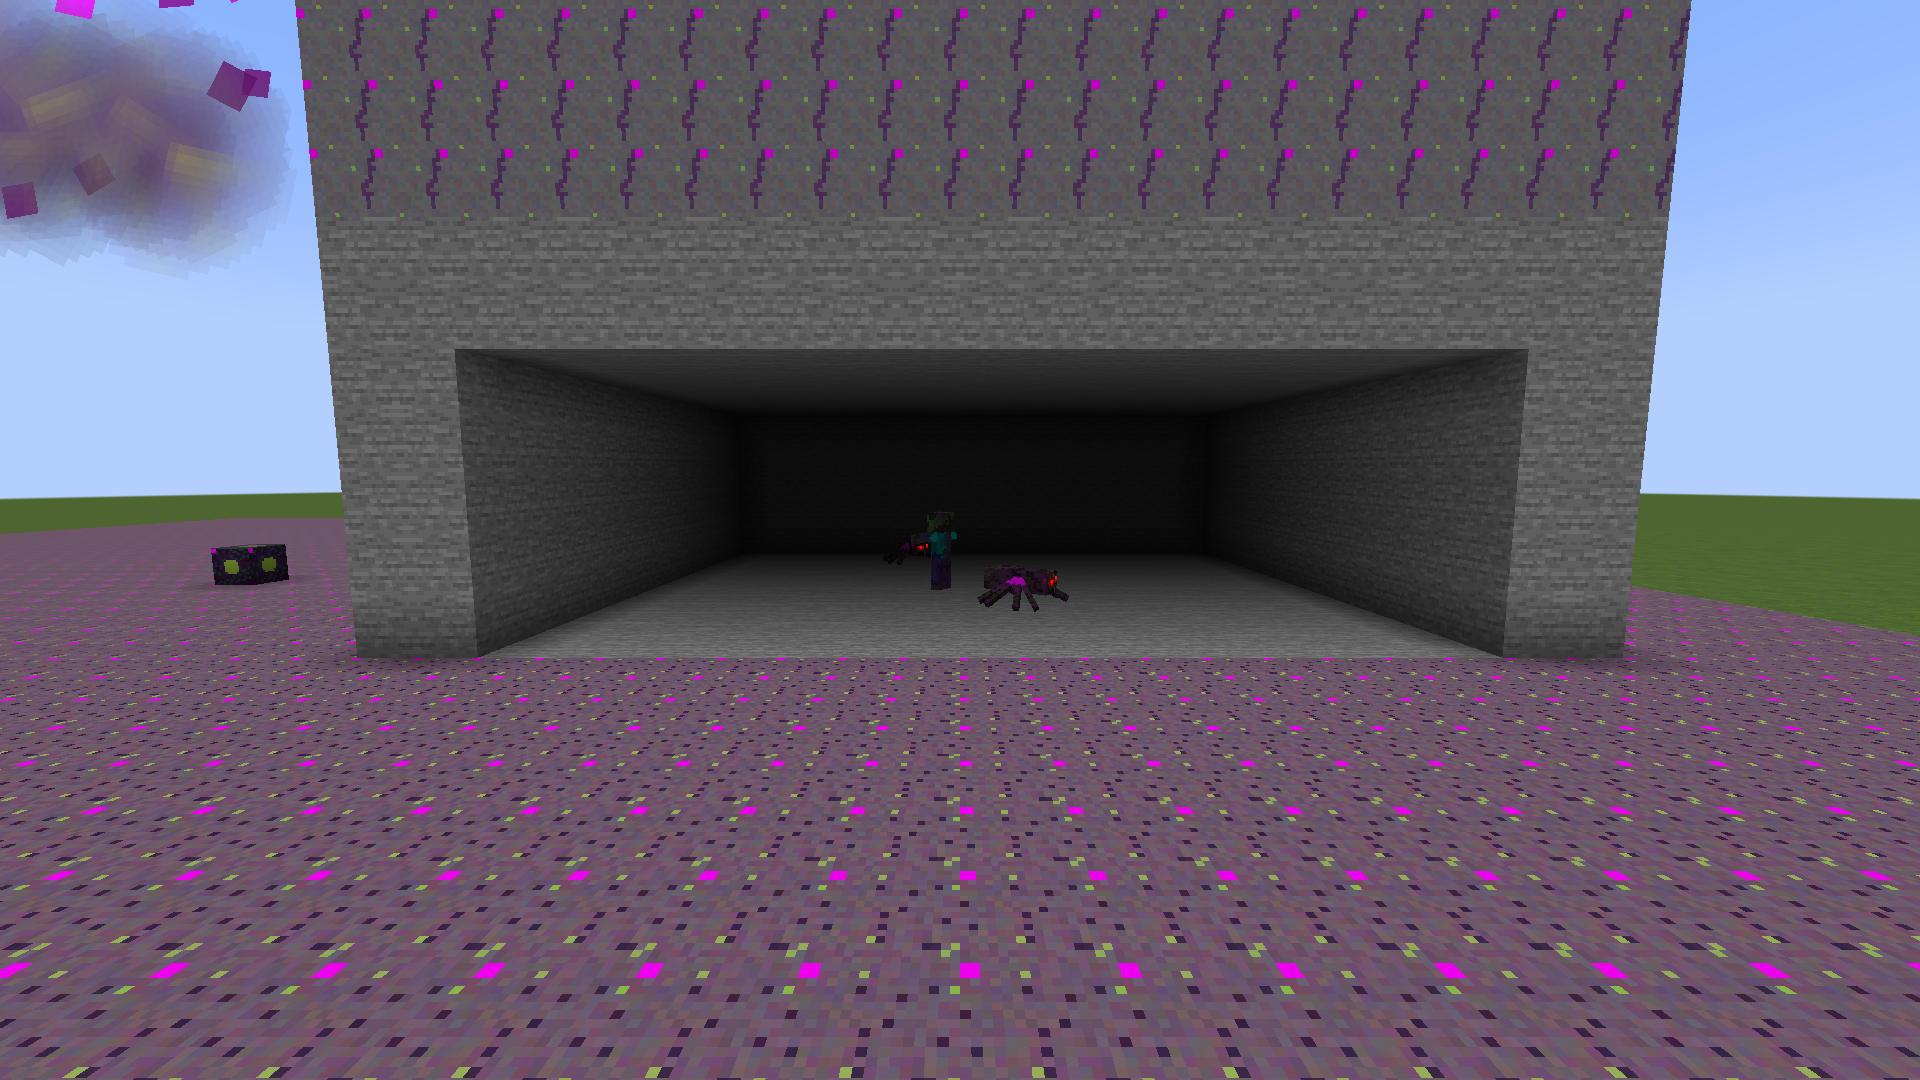
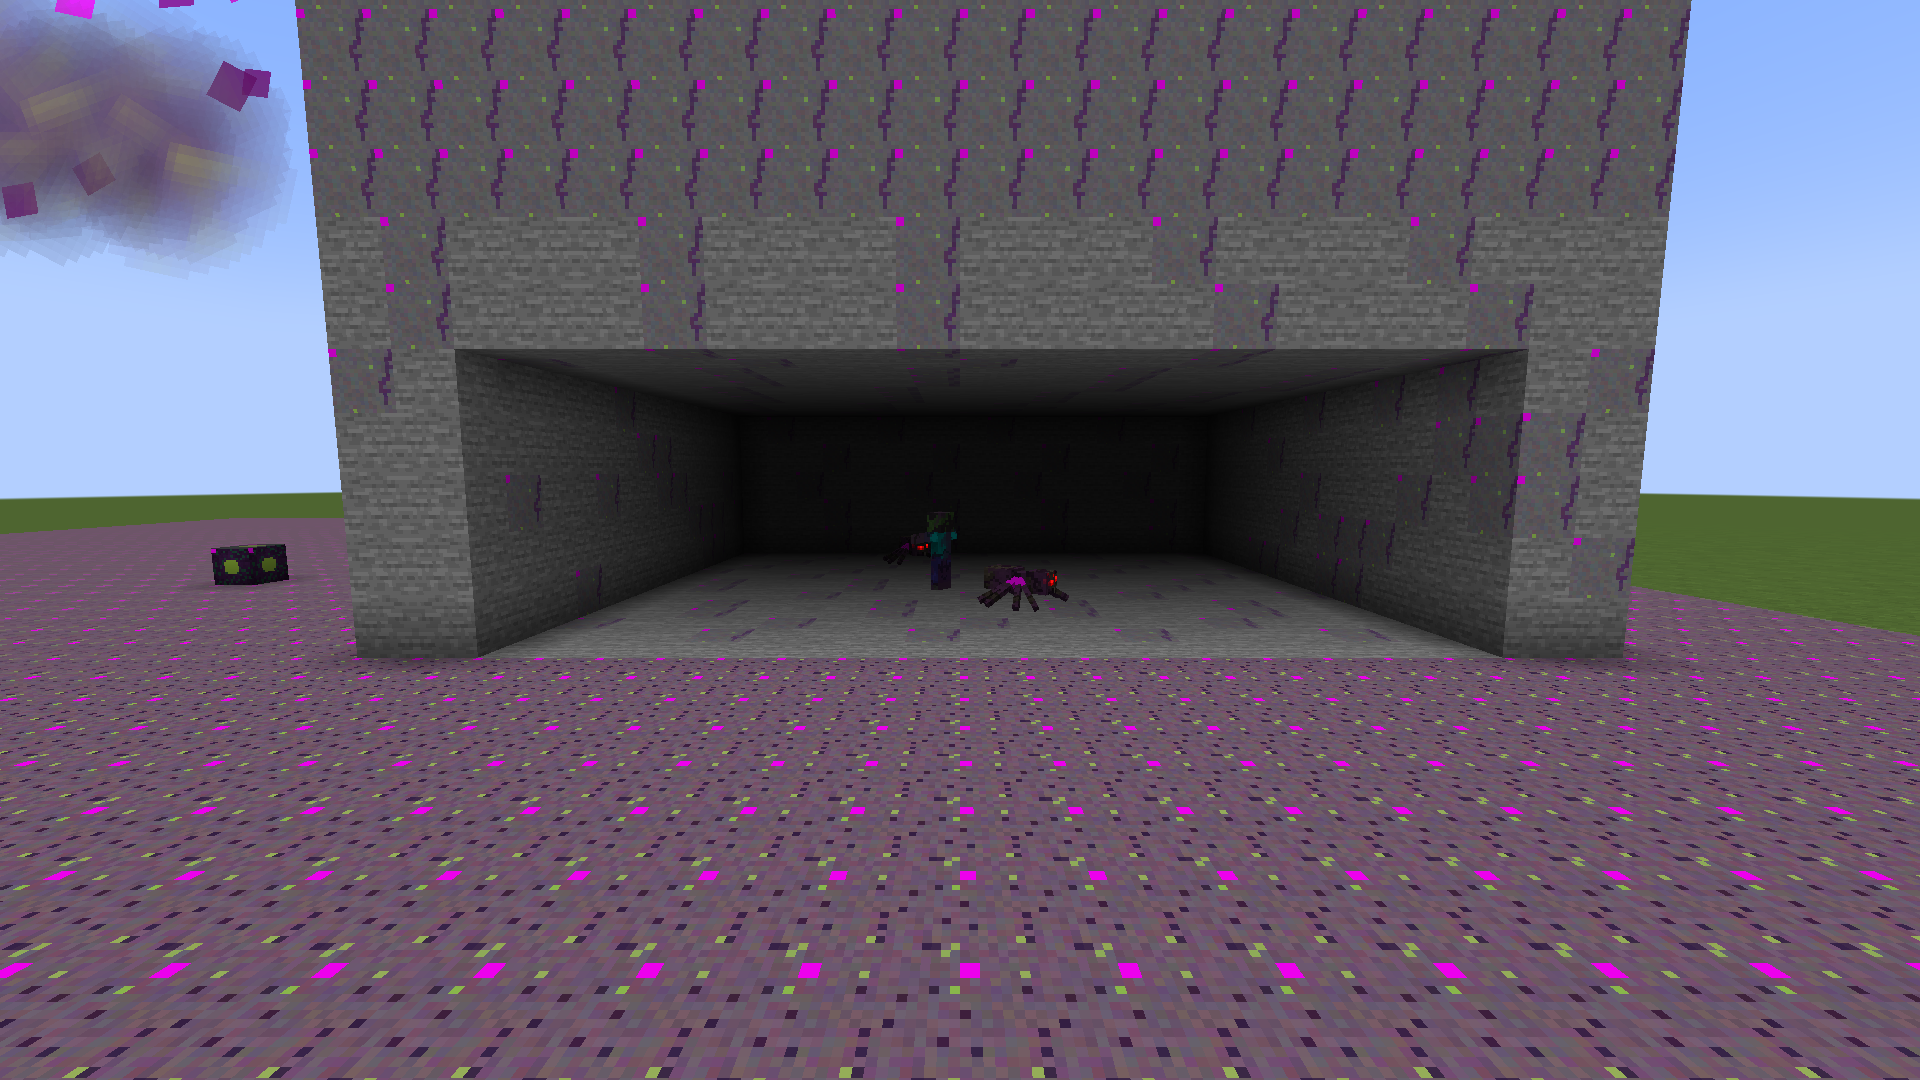
P4.3: Surges with host waves, miasma clouds, events, trigger, stat and commands

diff --git a/.agents/skills/visual-checks/SKILL.md b/.agents/skills/visual-checks/SKILL.md
@@ -58,7 +58,7 @@ Visual evidence is only valid from a GPU run. The log must name the RTX 4070 (he
 - `world/stages` (P4.2; shots `overview`, `stage_0`..`stage_4`): five chunks in a row along x, levels 0, 10, 30, 60, 90 (stages 0–4 with the default thresholds), each with a small oak tree, a horizontal log and a stone outcrop on superflat grass. Check: stage 1 only grass, stage 2 also logs and leaves, stage 3 also stone, stage 4 the same blocks plus the fester grass tint blending on the vanilla grass just outside the chunk; no dark or bright seams along chunk borders, no lighting holes under the canopies. `world/biome_flip` (shots `before`, `after`, `inside`): rows of short grass, a leaf hedge and a stone slab across the border between chunk x 0 and 1; `after` flips chunk 1 to stage 4 as a shot `commands` step, so the short grass there must show the fester tint (khaki, `#B0A07E`) with a clean edge at x = 16 and vanilla blending only on the vanilla grass side; `inside` looks across the flipped chunk, where sky and fog take the fester colours.
 - `world/caves` (P4.6; shots `overview`, `stage_0`..`stage_4`, `deepslate_sculk`, `deep_sparse`): a stone block 21 high (Y 0–20) along five chunks at stages 0–4 (levels 0, 10, 30, 60, 90), each with a tunnel open toward the camera (Y 2–7), coal and iron ore in its walls and ceiling, tuff in its floor and invisible light blocks in its middle; a sixth chunk the same in deepslate with sculk, a sculk sensor and a shrieker (stage 4, above Y=0), and a seventh in deepslate with sculk at Y −44 to −24 (stage 4, below Y=0). Check: stages 0–2 untouched; stages 3 and 4 have every wall, floor and ceiling face festered, the ores intact and the tuff turned to festered deepslate; `deepslate_sculk` shows festered deepslate as violet against the teal sculk, clearly not sculk; `deep_sparse` shows festered patches on about a quarter of the cave faces (the surface pass festers the block's top completely, visible in `overview`); no dark or bright blocks along festered faces (full blocks replace full blocks, so light must not change).
 
-- `world/surge` (P4.3; shots `land`, `hosts`, `cave`): festering land (stage 3) with a nidus, a festering tree, two miasma clouds and a stone hill with a sealed cave. `hosts` spawns surge hosts on the open ground and inside the cave (as a shot command); `cave` opens the cave's front wall. Check: hosts carry the overlay; the cave holds only monsters (zombies, spiders) and animals that could not spawn in the dark cave stand in the open (on the hill top); clouds render as soft violet puffs with the magenta placeholder squares, not as boxes or missing textures. `world/miasma_cloud` (P4.3; shots `side`, `below`, `drift`): four clouds (two placed, two released by `harness surge clouds`) over a 2x2-chunk festering square in clean land. Check: every cloud hangs over festering land, none over the clean grass or the clean tree; `below` looks up into a cloud (puffs blend, no hard sorting seams); `drift` runs `tick step 600` and the clouds have moved but still sit over festering land.
+- `world/surge` (P4.3; shots `land`, `hosts`, `cave`): festering land (stage 3) with a nidus, a festering tree, two miasma clouds and a stone hill with a sealed cave. `hosts` spawns surge hosts on the open ground and inside the cave (as a shot command); `cave` opens the cave's front wall. Since P4.6 the hill's exposed stone shows the sparse cave skin (below Y=0, one block in four). Check: hosts carry the overlay; the cave holds only monsters (zombies, spiders) and animals that could not spawn in the dark cave stand in the open (on the hill top); clouds render as soft violet puffs with the magenta placeholder squares, not as boxes or missing textures. `world/miasma_cloud` (P4.3; shots `side`, `below`, `drift`): four clouds (two placed, two released by `harness surge clouds`) over a 2x2-chunk festering square in clean land. Check: every cloud hangs over festering land, none over the clean grass or the clean tree; `below` looks up into a cloud (puffs blend, no hard sorting seams); `drift` runs `tick step 600` and the clouds have moved but still sit over festering land.
 
 Name scenes `<area>/<subject>` as in ROADMAP (`corruption/stages_vanilla`, `world/stages`, `purification/pylon_radius`, `integration/create_fan_purify`).
 

diff --git a/mod/CHANGELOG.md b/mod/CHANGELOG.md
@@ -20,3 +20,4 @@ Versions follow `mod_version` in `gradle.properties`; tags are `mod-v<version>`.
 - Quest gates (P8.1): advancement triggers `remission:nidus_destroyed` (a player breaks a nidus; `location`), `remission:host_scanned` (`entity`, `stage`, `bestiary_types`) and `remission:block_scanned` (`location`), and custom stats `remission:nidi_destroyed`, `remission:hosts_scanned` and `remission:blocks_scanned` on the statistics screen, for FTB Quests or any quest mod. Remission ships no advancements; packs define them.
 - Miasma and samples (P7.1): the `remission:miasma` fluid (source and flowing, liquid block, `remission:miasma_bucket`); with Mekanism installed, a `remission:miasma` chemical (optional integration, nothing changes without Mekanism); sample items `remission:nidus_core` (a broken nidus now drops one) and `remission:festered_soil` (a 25% chance from dirt, grass and other `#remission:festered_soil_sources` blocks broken in chunks at festering stage 2 or higher, via the new `remission:is_festering` loot condition and the `remission:festered_soil_samples` modifier). Placeholder textures.
 - Festering land infects mobs (P4.7): a mob that stays in festering land at festering stage 2 or higher, on the surface or underground, becomes a host after 5 minutes (or turns into its profile's `convert_to` type); time spent elsewhere wears the exposure off, and it is saved with the mob. Immune mobs and mobs whose profile sets `conversion.festering_land` to false are spared. New `[infection]` common config section (`festeringLand`, `festeringLandMinStage`, `festeringLandExposureTicks`) and API cause `CorruptionCause.FESTERING_LAND`.
+- Surges (P4.3): each dimension gets a surge from a nidus about once an in-game day once a player is in its reach (config `[surges]`), or on `/remission surge start [pos] [intensity]` (`stop`, `status`). A title, the raid horn and a boss bar warn players; then the nidus spreads faster, hosts from `#remission:surge_hosts` rise near players on festering land and in caves beneath it (respecting each type's spawn rules under cover, none on Peaceful, capped per surge), and drifting `remission:miasma_cloud` clouds are released above festering land (no effect yet; viral load is P5.1). `SurgeStartedEvent` and `SurgeEndedEvent` in the public API, `CorruptionCause.SURGE`, the `remission:surge_survived` trigger (`intensity`) and the `remission:surges_survived` stat. Placeholder cloud texture.

diff --git a/ROADMAP.md b/ROADMAP.md
@@ -225,7 +225,7 @@ Goals: the Strain spreads through land from nidi, visibly, and keeps progressing
 
 ### P4.3: Surges
 
-- Status: `in-progress`
+- Status: `review`
 - Owner: `feat/p4.3-surges`
 - PR:
 - Depends on: P4.1, P3.1, P4.4, P8.1
